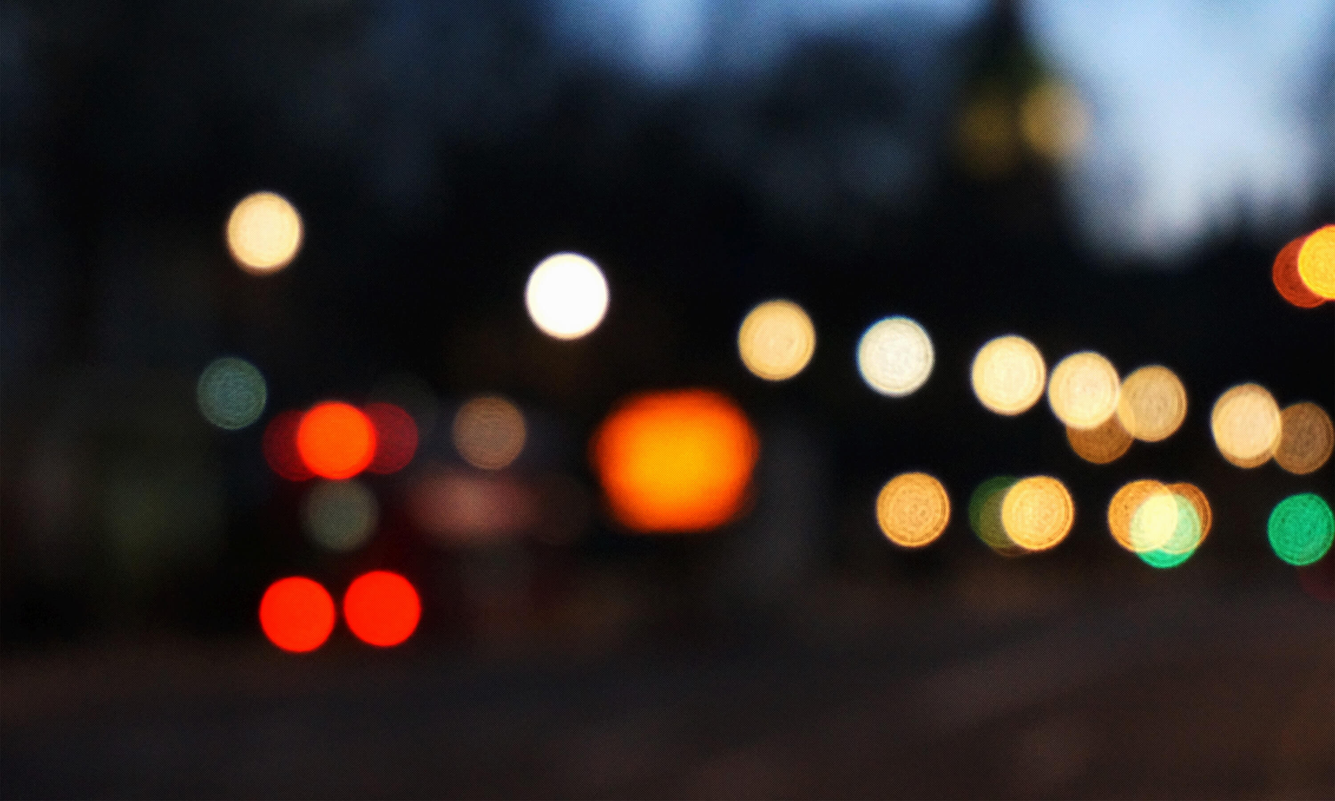
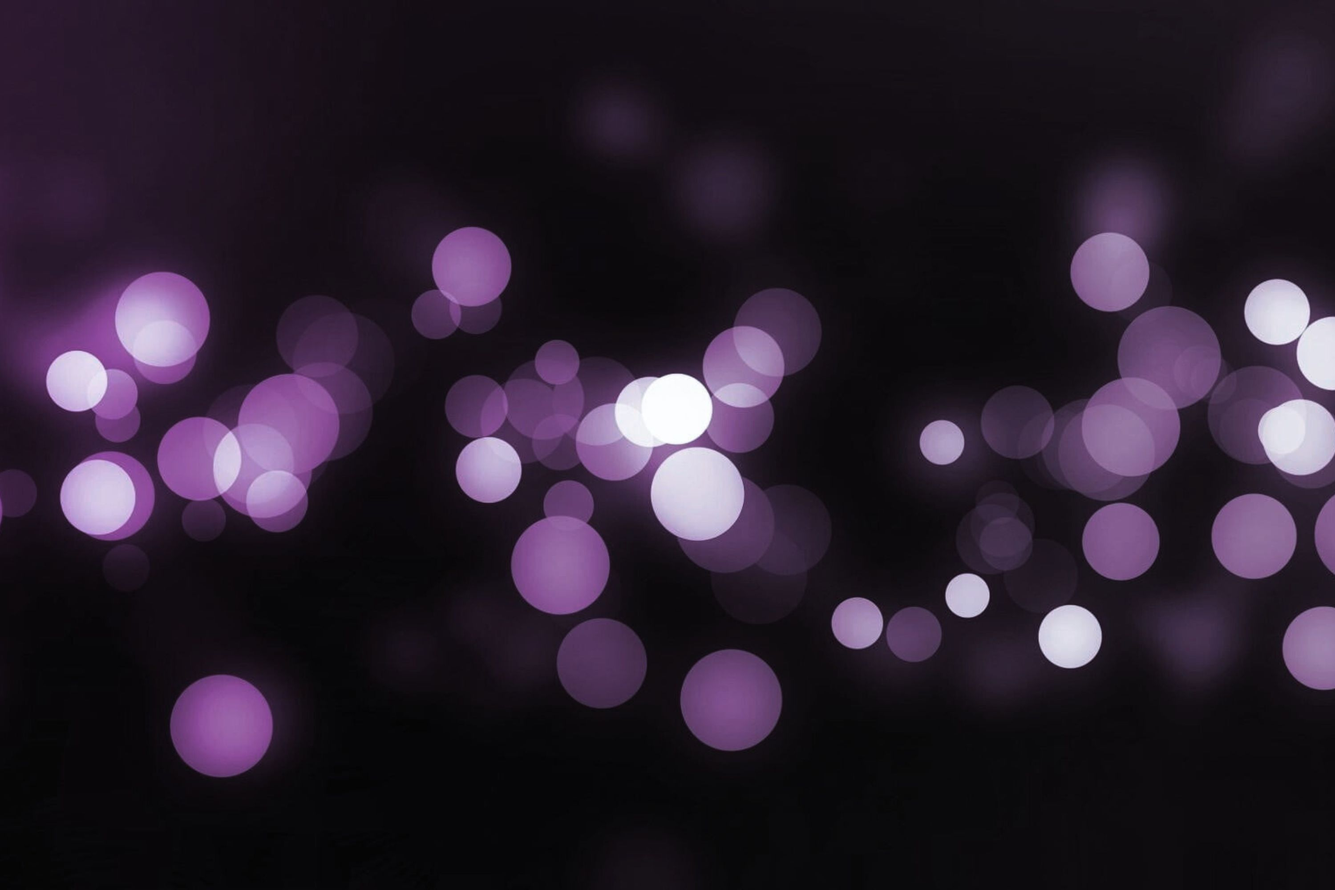
Add files via upload

diff --git a/index.html b/index.html
@@ -75,11 +75,14 @@
 
                     <h1>I'm Emmanuel M. Del Rio.</h1>
 
-                    <h3>
-                    I'm a Pampanga based <span>graphic designer</span>, <span>illustrator</span> and <span>Arts Commissioner</span> creating awesome and
-                    effective visual identities for companies of all sizes around the globe. Let's <a class="smoothscroll" href="#about">start scrolling</a>
-                    and learn more <a class="smoothscroll" href="#about">about me</a>.
+                    <h3>  
+                        I'm a Pampanga-based <span>graphic designer</span>, <span>illustrator</span>, and <span>Arts Commissioner</span> with a passion for crafting  
+                        creative and effective visual identities. I work with companies and individuals of all sizes around the globe, delivering designs that  
+                        are both visually stunning and purposeful. From unique illustrations to custom commissions, I bring ideas to life in a way that  
+                        resonates with audiences and tells a compelling story. Let's <a class="smoothscroll" href="#about">start scrolling</a> and explore more  
+                        <a class="smoothscroll" href="#about">about me</a>.  
                     </h3>
+                    
 
                     <div class="s-hero__content-social">
                         <!-- Facebook Icon -->
@@ -123,16 +126,13 @@
             <div class="column large-9 tab-12 s-about__content">
                 <h3>About Me</h3>
                 <p>
-                Sed ut perspiciatis unde omnis iste natus error sit voluptatem 
-                accusantium doloremque laudantium, totam rem aperiam, eaque ipsa 
-                quae ab illo inventore veritatis et quasi architecto beatae vitae 
-                dicta sunt explicabo. Nemo enim ipsam voluptatem quia voluptas sit 
-                aspernatur aut odit aut fugit, sed quia consequuntur magni dolores 
-                eos qui ratione voluptatem sequi nesciunt. Neque porro quisquam est, 
-                qui dolorem ipsum quia dolor sit amet, consectetur, adipisci velit, 
-                sed quia non numquam eius modi tempora incidunt ut labore et dolore 
-                magnam aliquam quaerat voluptatem. Ut enim ad minima veniam, quis 
-                nostrum exercitationem ullam corporis suscipit laboriosam.
+                    I’m a Pampanga-based graphic designer, illustrator, and arts commissioner passionate about crafting unique and 
+                    effective visual identities for businesses and individuals worldwide. With a blend of creativity and attention 
+                    to detail, I specialize in creating designs that are both visually stunning and purposeful. Whether it’s logos, 
+                    illustrations, wallpapers, or custom art commissions, I bring ideas to life that resonate with audiences and 
+                    leave a lasting impact. Over the years, I’ve worked with clients of all sizes, helping them build strong, 
+                    memorable visuals that tell their stories. Let’s collaborate and transform your vision into reality—scroll 
+                    down and explore more of my work!
                 </p>
 
                 <hr>

diff --git a/css/styles.css b/css/styles.css
@@ -100,7 +100,7 @@
      * color-2(#F06000)
      */
     --color-1: hsla(182, 82%, 38%, 1);
-    --color-2: hsla(24, 100%, 47%, 1);
+    --color-2: rgb(240, 0, 196);
 
     /* theme color variations
      */
@@ -108,10 +108,10 @@
     --color-1-light  : hsla(182, 82%, 48%, 1);
     --color-1-dark   : hsla(182, 82%, 28%, 1);
     --color-1-darker : hsla(182, 82%, 18%, 1);
-    --color-2-lighter: hsla(24, 100%, 67%, 1);
-    --color-2-light  : hsla(24, 100%, 57%, 1);
-    --color-2-dark   : hsla(24, 100%, 37%, 1);
-    --color-2-darker : hsla(24, 100%, 27%, 1);
+    --color-2-lighter: rgb(252, 89, 214);
+    --color-2-light  : rgb(251, 18, 208);
+    --color-2-dark   : rgb(195, 20, 184);
+    --color-2-darker : rgb(111, 16, 105);
 
     /* feedback colors
      * color-error(#ffd1d2), color-success(#c8e675), 
@@ -3447,7 +3447,7 @@ input[type="button"].btn--primary:focus {
     bottom: 0;
     width: 100%;
     height: 100%;
-    background-image: url(../images/header-bg-3000.jpg);
+    background-image: url(../images/header-bg-3000.png);
     background-repeat: no-repeat;
     background-position: center;
     background-size: cover;
